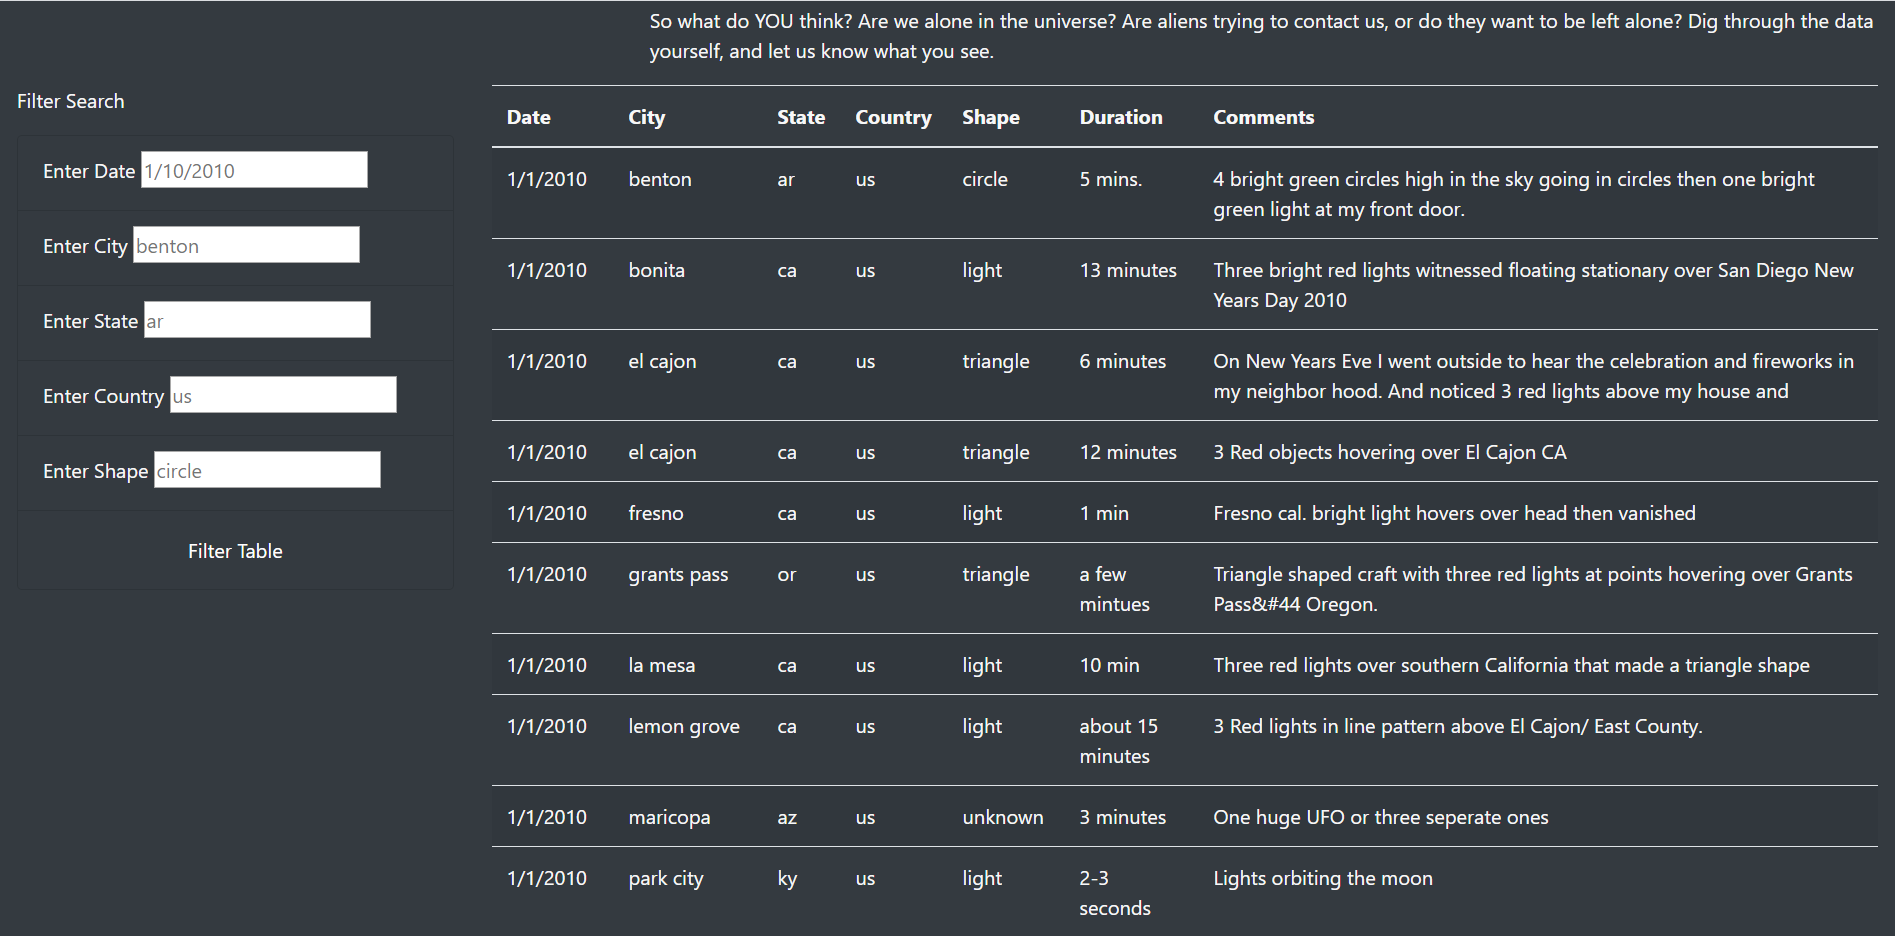
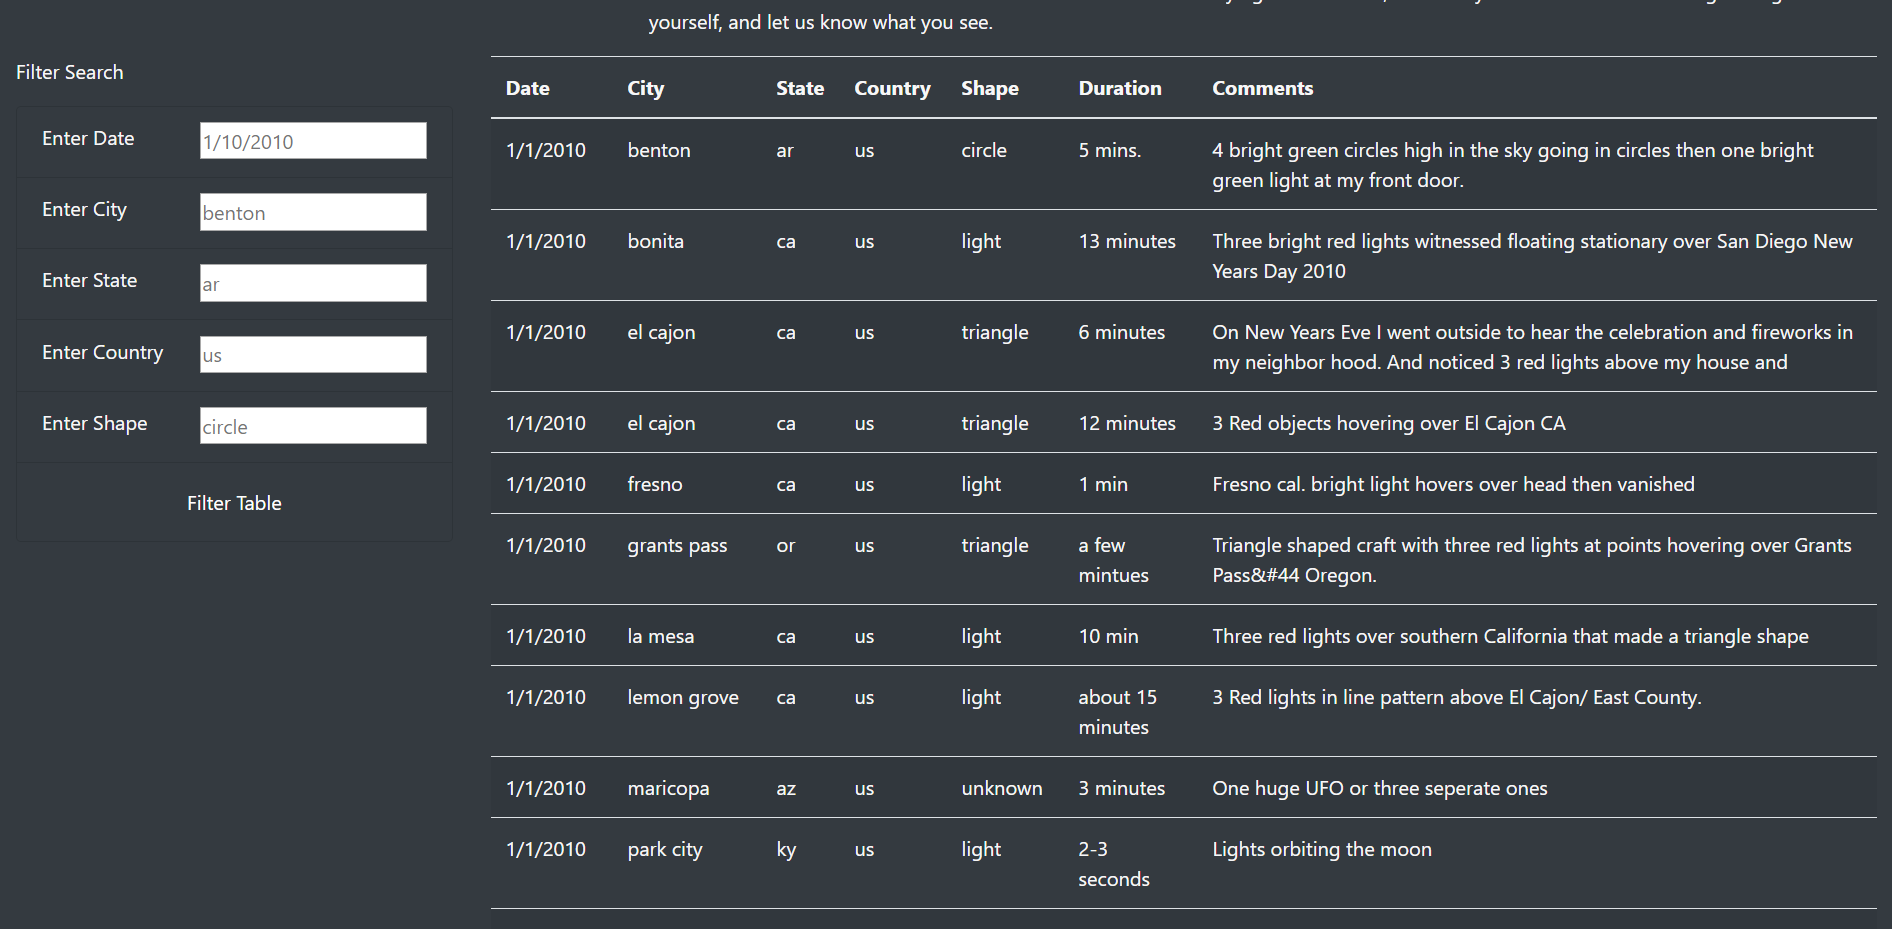
Aligned filters table.

diff --git a/index.html b/index.html
@@ -95,7 +95,7 @@
                                 <label for='date'>Enter Date</label>
 
                                 <!-- Add input -->
-                                <input type = 'text' placeholder = '1/10/2010' id = 'datetime'/>
+                                <input class = 'input_filter' type = 'text' placeholder = '1/10/2010' id = 'datetime'/>
 
                             </li>
 
@@ -106,7 +106,7 @@
                                 <label for='city'>Enter City</label>
 
                                 <!-- Add input -->
-                                <input type = 'text' placeholder = 'benton' id = 'city'/>
+                                <input class = 'input_filter' type = 'text' placeholder = 'benton' id = 'city'/>
 
                             </li>
 
@@ -117,7 +117,7 @@
                                 <label for='state'>Enter State</label>
 
                                 <!-- Add input -->
-                                <input type = 'text' placeholder = 'ar' id = 'state'/>
+                                <input class = 'input_filter' type = 'text' placeholder = 'ar' id = 'state'/>
 
                             </li>
 
@@ -128,7 +128,7 @@
                                 <label for='country'>Enter Country</label>
 
                                 <!-- Add input -->
-                                <input type = 'text' placeholder = 'us' id = 'country'/>
+                                <input class = 'input_filter' type = 'text' placeholder = 'us' id = 'country'/>
 
                             </li>
 
@@ -139,7 +139,7 @@
                                 <label for='shape'>Enter Shape</label>
 
                                 <!-- Add input -->
-                                <input type = 'text' placeholder = 'circle' id = 'shape'/>
+                                <input class = 'input_filter' type = 'text' placeholder = 'circle' id = 'shape'/>
 
                             </li>
 

diff --git a/static/css/style.css b/static/css/style.css
@@ -12,3 +12,10 @@ body {
     background-size: 100% 100%;
     text-align: center;
 }
+
+/* Align the filter labels and input box */
+.input_filter {
+
+    text-align: left;
+    float: right;
+}
